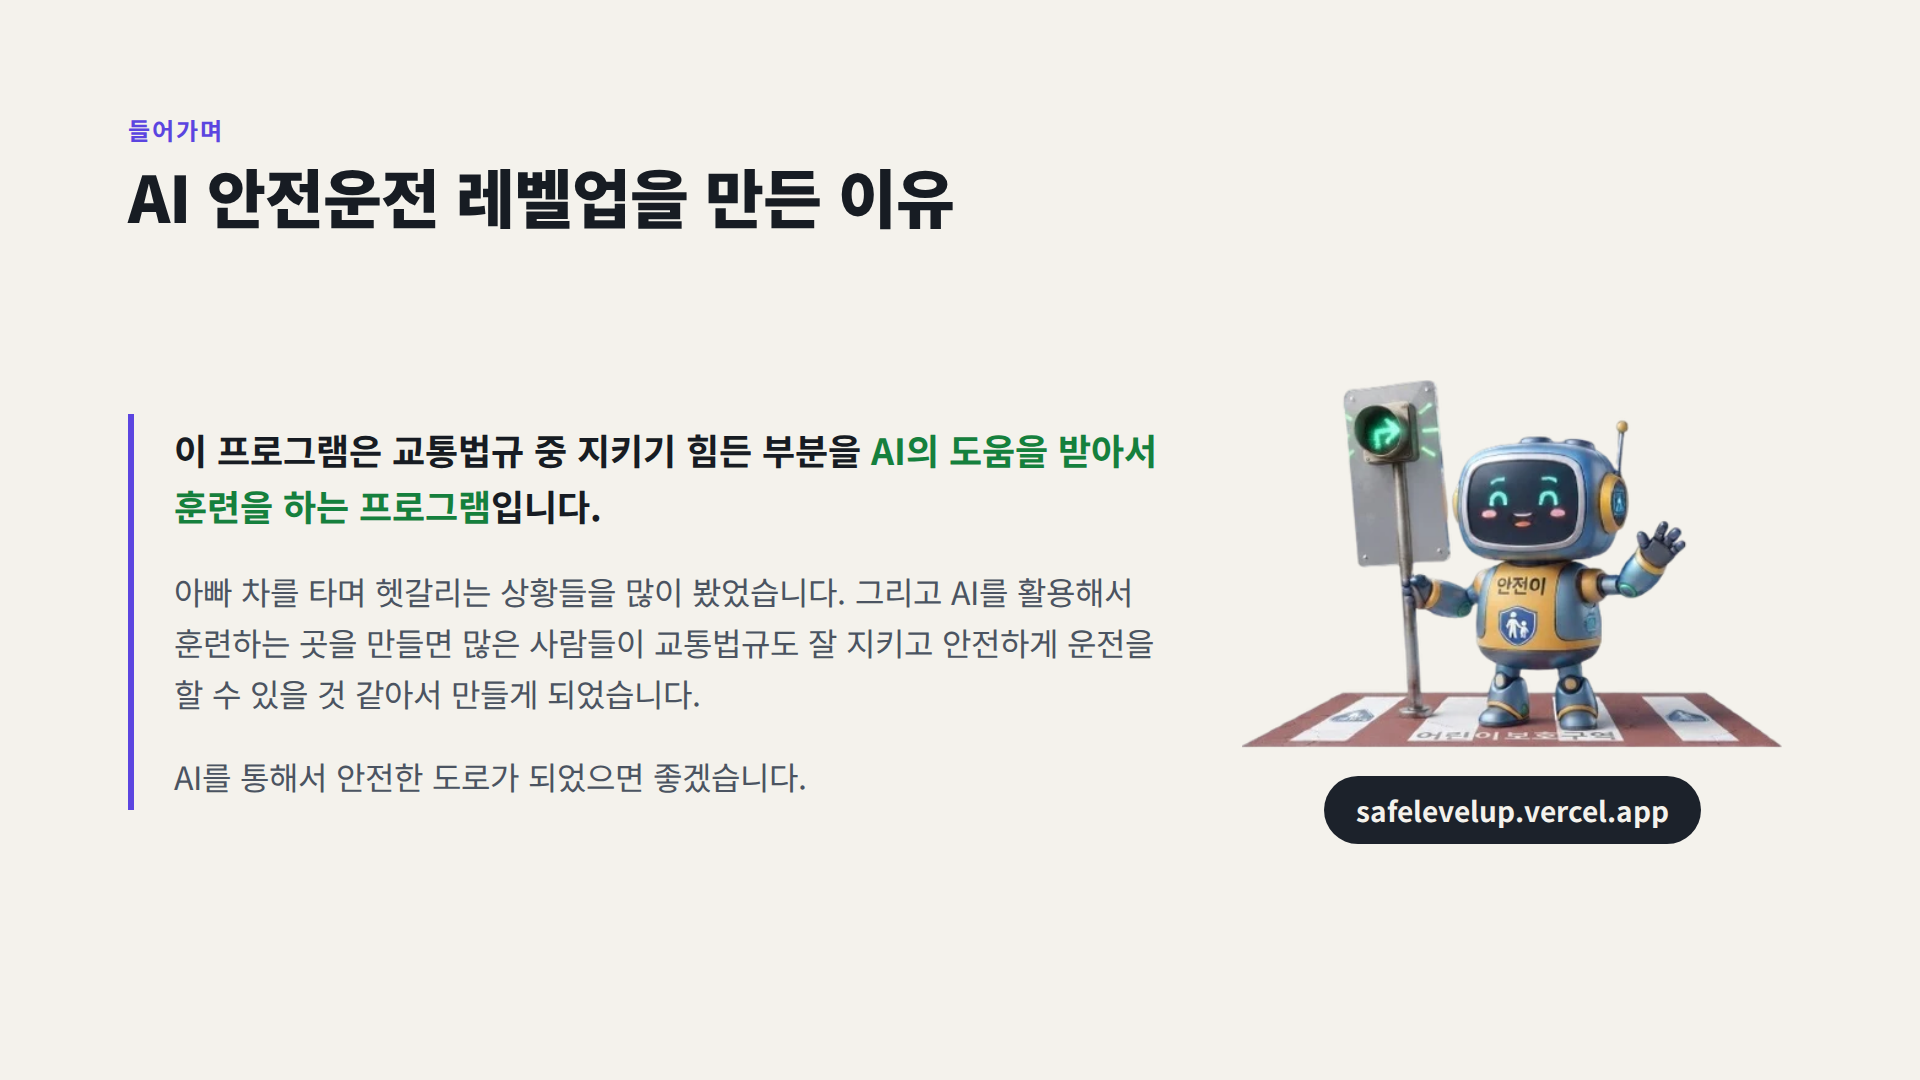
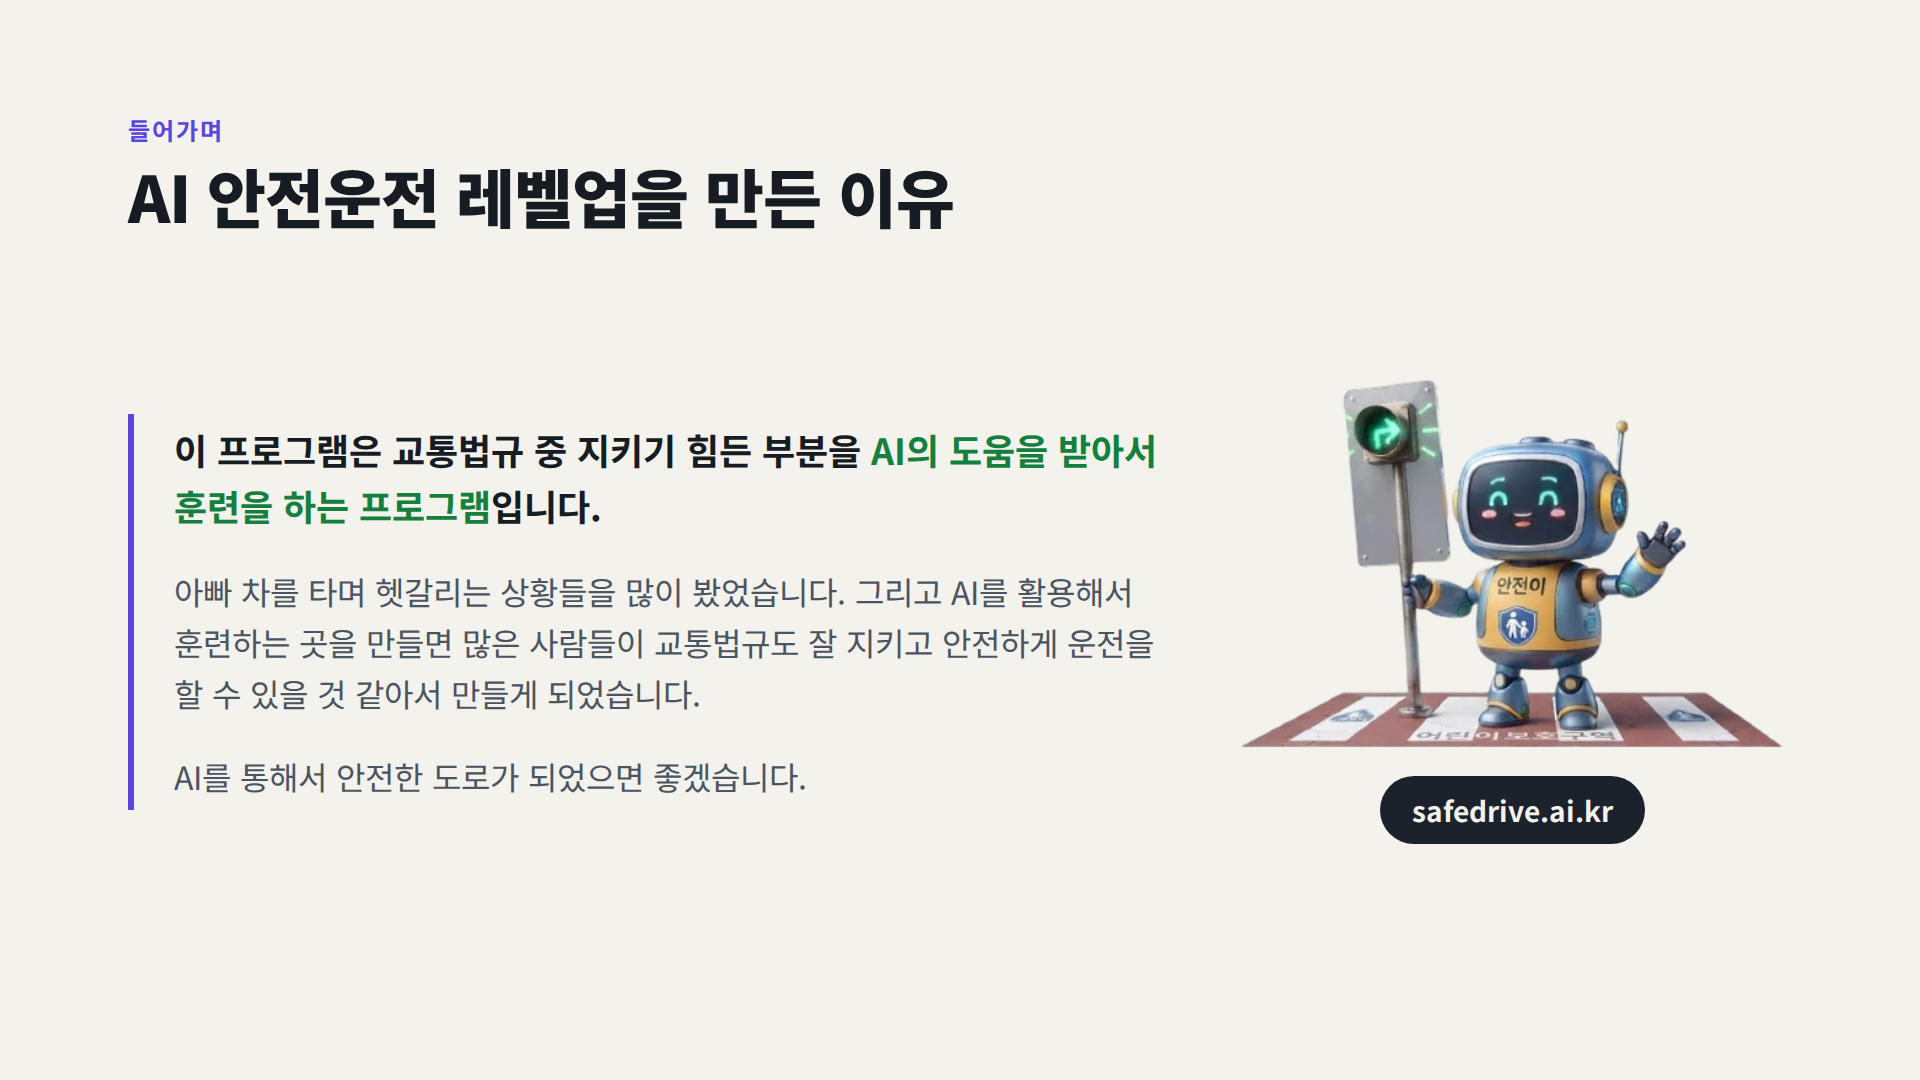
서비스 주소를 safedrive.ai.kr 로 바꾼다
사용자가 도메인을 샀다.

- 글자 파일 — README · LICENSE · THIRD_PARTY_NOTICES · 포트폴리오 페이지 ·
  vite.config 주석. CHANGELOG 는 [Unreleased] 안의 것만 (아래 절은 그때의 기록).
- 장표 그림 — 표지 · 들어가며 · 온라인 활용 · 마무리. 주소가 보이는 넷이다.
- 마무리 장표의 QR 코드를 새 주소로 다시 만든다. 자리 크기를 지키려고 같은
  29x29(버전 3)로 두고, 장표에 들어간 표가 라이브러리가 낸 표와 한 칸도
  다르지 않은지 대조했다.
- 슬라이드쇼(webp)도 다시 만든다.

**아직 DNS 가 연결되지 않았다** — 이 커밋은 저장소가 새 주소를 가리키게 할
뿐이다. safelevelup.vercel.app 은 계속 살아 있다.

Changed region(s): [[0.6875, 0.7028, 0.9062, 0.7944]]

diff --git a/AI_safelevelup_portfolio.html b/AI_safelevelup_portfolio.html
@@ -220,7 +220,7 @@
 <body>
 
 <header class="top">
-  <a class="brand" href="https://safelevelup.vercel.app" aria-label="AI 안전운전 레벨업 — 사이트로 가기">
+  <a class="brand" href="https://safedrive.ai.kr" aria-label="AI 안전운전 레벨업 — 사이트로 가기">
     <span class="ai">AI</span><span class="t g">안전운전</span><span class="rest">교실</span>
     <small>포트폴리오</small>
   </a>
@@ -233,7 +233,7 @@
     <button type="button" data-chapter="마무리">마무리</button>
   </nav>
   <div class="links">
-    <a href="https://safelevelup.vercel.app" target="_blank" rel="noopener">
+    <a href="https://safedrive.ai.kr" target="_blank" rel="noopener">
       <svg class="ico" viewBox="0 0 24 24" fill="none" stroke="currentColor" stroke-width="2" stroke-linecap="round" stroke-linejoin="round" aria-hidden="true"><circle cx="12" cy="12" r="10"/><path d="M12 2a14.5 14.5 0 0 0 0 20 14.5 14.5 0 0 0 0-20"/><path d="M2 12h20"/></svg>
       <span class="txt">연습하러 가기</span><span class="sr">(새 창)</span>
     </a>
@@ -342,7 +342,7 @@
     </section>
 
     <section class="slide" data-chapter="마무리" data-title="감사합니다">
-      <img src="docs/slides/25-closing.png" alt="감사합니다 — 사이트 safelevelup.vercel.app, GitHub github.com/goodpjw2008/Project_AI-SafeDriveLevelup" loading="lazy" decoding="async">
+      <img src="docs/slides/25-closing.png" alt="감사합니다 — 사이트 safedrive.ai.kr, GitHub github.com/goodpjw2008/Project_AI-SafeDriveLevelup" loading="lazy" decoding="async">
     </section>
   </div>
 

diff --git a/vite.config.ts b/vite.config.ts
@@ -85,7 +85,7 @@ const IMAGE_TYPES: Record<string, string> = {
  *
  * 페이지는 **저장소 맨 위**에 둔다 — GitHub 에서 README 옆에 바로 보이고, 저장소를 내려받아 두 번 누르면
  * 그림(docs/slides/…)을 상대 경로로 찾아 그대로 열린다. 그런데 GitHub 는 HTML 을 그려 주지 않고 소스만
- * 보여 주므로, 누르면 바로 넘겨 볼 수 있게 safelevelup.vercel.app/AI_safelevelup_portfolio.html 에도 올린다.
+ * 보여 주므로, 누르면 바로 넘겨 볼 수 있게 safedrive.ai.kr/AI_safelevelup_portfolio.html 에도 올린다.
  *
  * public/ 으로 옮기지 않는 이유: 저장소 맨 위에서 사라지고, 그림도 public/ 에 한 벌 더 두어야 한다.
  * 그래서 빌드 때 **페이지가 부르는 그림만** 골라 같은 경로로 dist 에 내보낸다 — 그림 목록은 페이지 한 곳에만 있어,

diff --git a/CHANGELOG.md b/CHANGELOG.md
@@ -34,7 +34,7 @@
   - **성장 6개** (첫 걸음 · 습관 교정가 · 스쿨존 첫 완주 · 상황 탐험가 · 앞차 판단가 · 우회전 마스터): 한 번 해내면 잃지 않습니다.
   - 결과 화면에 이번 판에 얻거나 잃은 뱃지가 까닭과 함께 뜨고, 첫 화면의 '뱃지 N / 14' 를 누르면 모든 뱃지와 남은 횟수를 볼 수 있습니다. 직접 운전한 판만 세고(자율 주행 · 맵 체험 제외), 이미 달린 기록으로 처음 뱃지를 채워 줍니다.
 - 나쁜 운전 습관이 여럿이면 **먼저 고칠 습관을 AI가 정합니다** — 많이 한 순서만이 아니라 최근 주행에서 이어 나오는지, 지점별 준수율, 보행자 · 어린이가 걸린 위험한 습관인지를 보고 정합니다. 추천 결과 카드에 "먼저 고칠 습관 (AI 판단)" 이 뜹니다. 고른 코스는 여전히 그 습관을 시험하는 검증된 코스 안에서만 나옵니다.
-- **포트폴리오 넘겨 보기 페이지** — README의 포트폴리오 장표를 발표하듯 한 장씩 넘겨 봅니다: https://safelevelup.vercel.app/AI_safelevelup_portfolio.html (저장소의 `AI_safelevelup_portfolio.html`). 방향키 · 스페이스 · 손가락으로 밀기로 넘기고, 장 바로 가기 · 전체 장표 목록 · 전체 화면을 지원합니다. 주소 끝의 `#8` 처럼 장 번호로 바로 열 수 있습니다.
+- **포트폴리오 넘겨 보기 페이지** — README의 포트폴리오 장표를 발표하듯 한 장씩 넘겨 봅니다: https://safedrive.ai.kr/AI_safelevelup_portfolio.html (저장소의 `AI_safelevelup_portfolio.html`). 방향키 · 스페이스 · 손가락으로 밀기로 넘기고, 장 바로 가기 · 전체 장표 목록 · 전체 화면을 지원합니다. 주소 끝의 `#8` 처럼 장 번호로 바로 열 수 있습니다.
 
 ### 고침
 
@@ -68,16 +68,19 @@
 
 ### 변경
 
+- **서비스 주소가 직접 산 도메인으로 바뀌었습니다 — `safedrive.ai.kr`.** README · LICENSE · THIRD_PARTY_NOTICES · 포트폴리오 넘겨 보기 페이지 · 장표 그림(표지 · 들어가며 · 온라인 활용 · 마무리)의 주소를 모두 바꿨고, **마무리 장표의 QR 코드도 새 주소로 다시 만들었습니다.**
+  - 지금까지 쓰던 `safelevelup.vercel.app` 도 그대로 열립니다 — 이미 건네 둔 링크가 끊기지 않습니다.
+
 - **포트폴리오의 화면 캡처 열 장을 지금 화면으로 다시 찍었습니다** — 첫 화면 · 습관 분석 · 맵 추천 · 주행 중 말풍선 · 보행자 느낌표 · PERFECT 결과 · VIOLATION 결과 · 우회전 방법 · 어린이보호구역 운전 방법 · About 입니다. 이름을 바꾸기 전에 찍은 것이라 화면 안에 옛 이름이 그대로 남아 있었고, 첫 화면은 그새 디자인도 바뀌어 있었습니다.
   - 결과 화면 둘은 **AI 코칭이 도착한 뒤**에 찍었습니다 — '분석 중…' 인 채로 찍으면 장표가 말하는 것이 화면에 없습니다. PERFECT 는 자율 주행이 아니라 **직접 몰아서** 받았습니다 (자율 주행 결과에는 "AI 가 분석을 하지 않습니다" 라고 뜹니다).
 - **포트폴리오 마지막 장의 제목을 '만든 사람과 라이선스' → '만든 사람'** 으로 줄였습니다 (사용자가 정했습니다).
 
-- **포트폴리오 넘겨 보기 페이지의 파일 이름도 바꿨습니다 — `AI_safeturn_portfolio.html` → `AI_safelevelup_portfolio.html`.** 주소가 `safelevelup.vercel.app` 이 된 마당에 파일 이름만 옛 이름이라 어색했습니다. **옛 주소로 들어와도 새 파일로 넘겨줍니다**(`vercel.json` 의 301) — 지금까지 건네 둔 링크가 끊기지 않습니다.
+- **포트폴리오 넘겨 보기 페이지의 파일 이름도 바꿨습니다 — `AI_safeturn_portfolio.html` → `AI_safelevelup_portfolio.html`.** 주소가 `safedrive.ai.kr` 이 된 마당에 파일 이름만 옛 이름이라 어색했습니다. **옛 주소로 들어와도 새 파일로 넘겨줍니다**(`vercel.json` 의 301) — 지금까지 건네 둔 링크가 끊기지 않습니다.
 
 - **이름을 바꿨습니다 — `AI 안전운전 교실` → `AI 안전운전 레벨업`** (사용자가 정했습니다). 이 교실이 실제로 하는 일이 **레벨을 올리는 것**입니다 — 나쁜 운전 습관을 고쳐야 경험치가 쌓이고 레벨이 오르고 차가 바뀝니다(L1~L10 · 마스터). '교실' 은 장소를 말할 뿐이라 무엇을 하는 곳인지가 이름에 없었습니다. 첫 화면 제목 · README 제목 그림 · 포트폴리오 장표 · About 창 · 말풍선까지 한 번에 바꿨습니다.
   - 이름 딱지는 그대로입니다 — `AI` 배지와 `안전운전` 녹색 딱지, 그리고 칠하지 않은 `레벨업`.
 
-- **서비스 주소가 바뀌었습니다 — `safeturn.vercel.app` → `safelevelup.vercel.app`** (사용자가 정했습니다). 작품 이름이 '우회전' 에서 '안전운전' 으로 바뀐 것을 주소도 따라갑니다. README · LICENSE · 포트폴리오 넘겨 보기 페이지 · 장표 그림(표지 · 들어가며 · 온라인 활용 · 마무리)의 주소를 모두 바꿨고, **마무리 장표의 QR 코드도 새 주소로 다시 만들었습니다.**
+- **서비스 주소가 바뀌었습니다 — `safeturn.vercel.app` → `safedrive.ai.kr`** (사용자가 정했습니다). 작품 이름이 '우회전' 에서 '안전운전' 으로 바뀐 것을 주소도 따라갑니다. README · LICENSE · 포트폴리오 넘겨 보기 페이지 · 장표 그림(표지 · 들어가며 · 온라인 활용 · 마무리)의 주소를 모두 바꿨고, **마무리 장표의 QR 코드도 새 주소로 다시 만들었습니다.**
   - **깃허브 저장소 이름도 `Project_AI-TurnRight` → `Project_AI-SafeDriveLevelup` 로 바뀌었습니다.** 저장소 안에 적혀 있던 옛 주소(포트폴리오 링크 · CHANGELOG 의 비교 링크 · 마무리 장표의 GitHub 줄)를 새 이름으로 맞췄습니다. 깃허브가 옛 주소를 넘겨 주기는 하지만, 적어 둔 곳은 새 이름이라야 합니다.
   - 0.5.0 절에 적힌 예전 주소는 **그때의 기록**이라 그대로 둡니다.
 

diff --git a/THIRD_PARTY_NOTICES.md b/THIRD_PARTY_NOTICES.md
@@ -4,7 +4,7 @@
 
 > **참고**: 아래 목록에 기록한 것 이외의 창작물에는 [LICENSE](LICENSE) 가 적용됩니다. 아래의 제3자 자산은 **각 원작자의 라이선스**를 그대로 따르며, LICENSE 가 무엇을 정하든 그 조건대로 써야 합니다.
 >
-> 3D 자동차 모델 중 4종(아반떼 N · M8 · M5 · SL63)은 **비영리(NC)** 조건입니다. 이 모델이 들어 있는 배포 사이트(https://safelevelup.vercel.app)는 비영리로만 운영합니다. 이 저장소를 상업적으로 쓰려면 해당 모델 파일과 그 차 사진을 빼야 합니다.
+> 3D 자동차 모델 중 4종(아반떼 N · M8 · M5 · SL63)은 **비영리(NC)** 조건입니다. 이 모델이 들어 있는 배포 사이트(https://safedrive.ai.kr)는 비영리로만 운영합니다. 이 저장소를 상업적으로 쓰려면 해당 모델 파일과 그 차 사진을 빼야 합니다.
 
 ---
 
